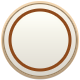
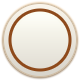
Menu: the round buttons' edge is smooth. Their shadow was a hard dark circle a pixel past the rim, under a dark edge ring, and showed as a rough grey border, thicker at the foot; it is now a soft shadow a little lower, with a fine light edge round the rim (and a soft glow when lit). Theme kit templa

Changed region(s): [[0.0, 0.0, 1.0, 1.0]]

diff --git a/src/art/skinpaint.cpp b/src/art/skinpaint.cpp
@@ -219,11 +219,15 @@ struct Painter {
             const auto ch = [k](std::uint8_t x) { return static_cast<std::uint8_t>(std::min(255.0f, x * k)); };
             return Rgba{ch(v.r), ch(v.g), ch(v.b), v.a};
         };
-        if (over) c.circle(40, 40, 39, glow);
-        c.circle(40, 41.5f, 38, shadow);
-        // The rim: the card's colour shaded top to bottom, a fine edge round it.
+        // Soft all round, the shadow a little lower: a hard dark circle a
+        // pixel past the rim, under a dark edge, showed as a rough grey
+        // border (uneven, thicker at the foot) on a tester's TV.
+        if (over) c.shadow(3, 3, 74, 74, 37, 3.0f, glow, 2.0f);
+        c.shadow(3, 4, 74, 74, 37, 2.5f, shadow, 2.0f);
+        // The rim: the card's colour shaded top to bottom, a fine light edge
+        // round it.
         c.rounded_gradient(3, 3, 74, 74, 37, shade(card, 1.0f), shade(card, 0.86f));
-        c.ring(40, 40, 37, 1.2f, edge_strong);
+        c.ring(40, 40, 37, 1.0f, Mix(edge, card, 0.35f));
         // The accent's ring, and the face inside it, light at the top.
         c.ring(40, 40, 31.5f, over ? 4.0f : 3.2f, accent);
         c.rounded_gradient(11.5f, 11.5f, 57, 57, 28.5f, shade(card, 1.04f), shade(card, 0.90f));
